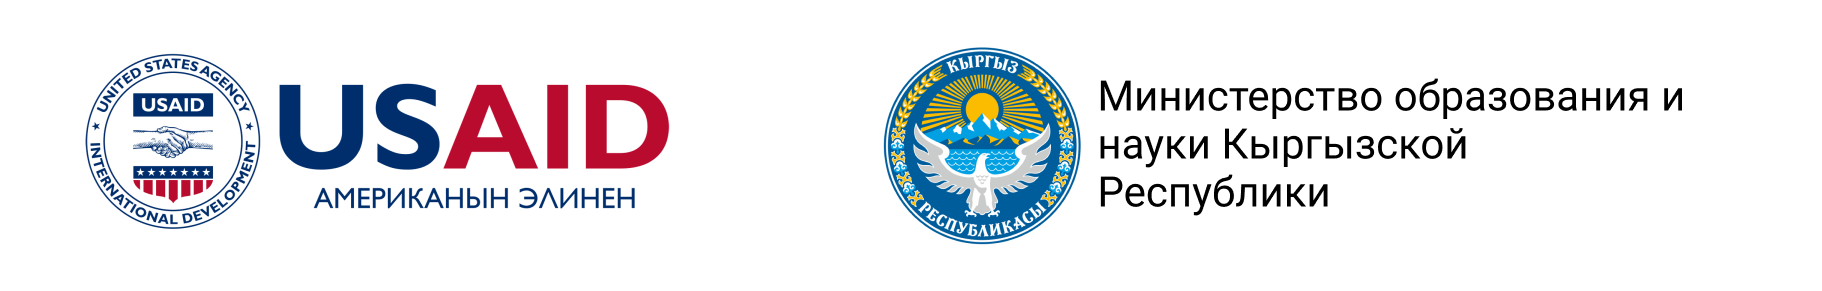
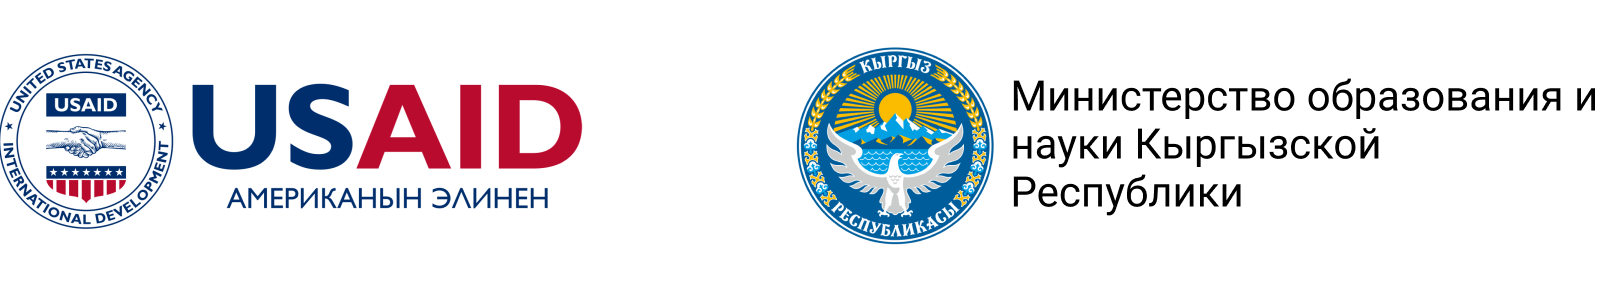
WIP Kyrgyz xmatter and branding

Changed region(s): [[0.4664, 0.1546, 0.995, 0.866], [0.0, 0.1856, 0.3731, 0.8041]]

diff --git a/src/BloomBrowserUI/templates/xMatter/Kyrgyz-XMatter/Kyrgyz-XMatter.less b/src/BloomBrowserUI/templates/xMatter/Kyrgyz-XMatter/Kyrgyz-XMatter.less
@@ -1,6 +1,7 @@
 @import "../../xMatter/bloom-xmatter-common.less";
 
 @XMatterPackName: "Kyrgyz";
+@HeaderHeight: 3.5cm;
 
 div.bloom-page.outsideFrontCover,
 div.bloom-page.outsideBackCover {
@@ -54,7 +55,7 @@ div.bloom-page.outsideBackCover {
 .frontCover .bloom-translationGroup.bookTitle {
     color: black;
     background-color: white;
-    height: 3.5cm;
+    height: @HeaderHeight;
     /*flex-basis: content;*/
     flex-direction: unset;
     align-items: center;
@@ -62,10 +63,10 @@ div.bloom-page.outsideBackCover {
 
 /* basePage.css | http://localhost:8089/bloom/C%3A/Users/hatto/Documents/Bloom/Kyrgyz%20Branding%20Test/Book/basePage.css */
 
-.marginBox {
-    /* top: 15mm; */
-    top: 0;
-}
+// .marginBox {
+//     /* top: 15mm; */
+//     top: 0;
+// }
 
 .bloom-imageContainer img {
     /* width: 100%; */
@@ -95,6 +96,7 @@ div.bloom-imageContainer:nth-child(2) > img:nth-child(1) {
 [data-book="outside-back-cover-branding-top-html"] {
     background-color: white;
     margin-left: -15mm;
+    height: @HeaderHeight;
 }
 
 [data-book="back-cover-boilerplate"] {
@@ -103,6 +105,14 @@ div.bloom-imageContainer:nth-child(2) > img:nth-child(1) {
 [data-book="level-image"] {
     margin-top: auto;
     margin-right: auto;
-    height: 8cm;
+    height: 7cm;
     border: none !important;
+}
+
+/* only white makes sense, e.g. for the inside cover colors */
+div.bloom-page {
+    &.insideFrontCover,
+    &.insideBackCover {
+        background-color: white !important;
+    }
 }

diff --git a/src/BloomBrowserUI/branding/KyrgyzRepublic2020/branding.css b/src/BloomBrowserUI/branding/KyrgyzRepublic2020/branding.css
@@ -34,6 +34,7 @@ Rules that format the branding go in branding-base.less, or in the branding.less
 .A6Portrait .portraitOnly {
     display: unset;
 }
+.Cm13Landscape .landscapeOnly,
 .Device16x9Landscape .landscapeOnly,
 .LetterLandscape .landscapeOnly,
 .LegalLandscape .landscapeOnly,
@@ -42,4 +43,8 @@ Rules that format the branding go in branding-base.less, or in the branding.less
 .A5Landscape .landscapeOnly,
 .A6Landscape .landscapeOnly {
     display: unset;
+}
+[data-book="outside-back-cover-branding-top-html"] img {
+    margin-top: auto;
+    margin-bottom: auto;
 }

diff --git a/src/BloomBrowserUI/branding/KyrgyzRepublic2020/branding.less b/src/BloomBrowserUI/branding/KyrgyzRepublic2020/branding.less
@@ -1,1 +1,6 @@
 @import "../branding-base.less";
+
+[data-book="outside-back-cover-branding-top-html"] img {
+    margin-top: auto;
+    margin-bottom: auto;
+}
